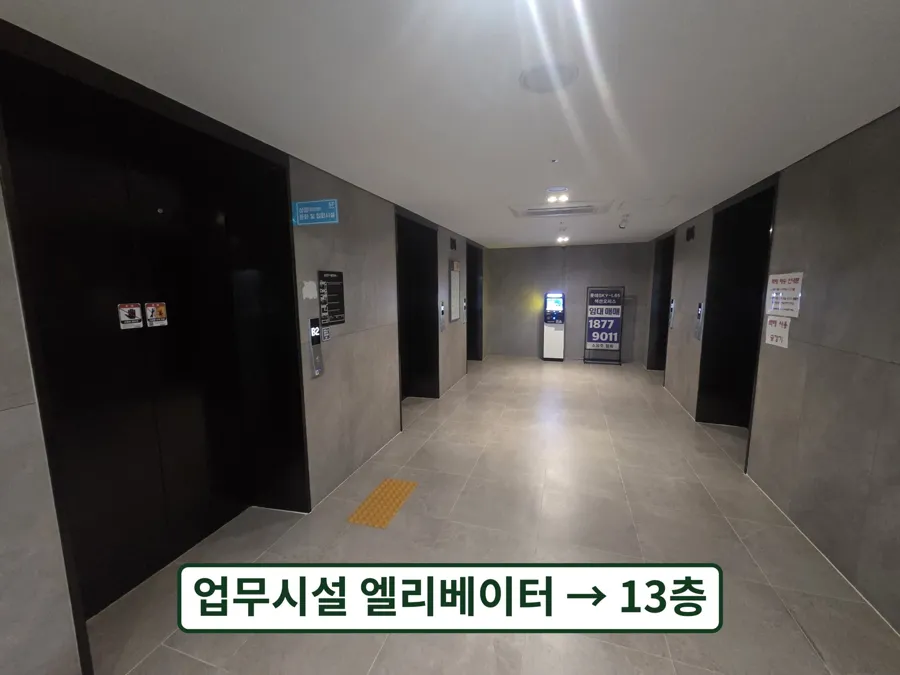
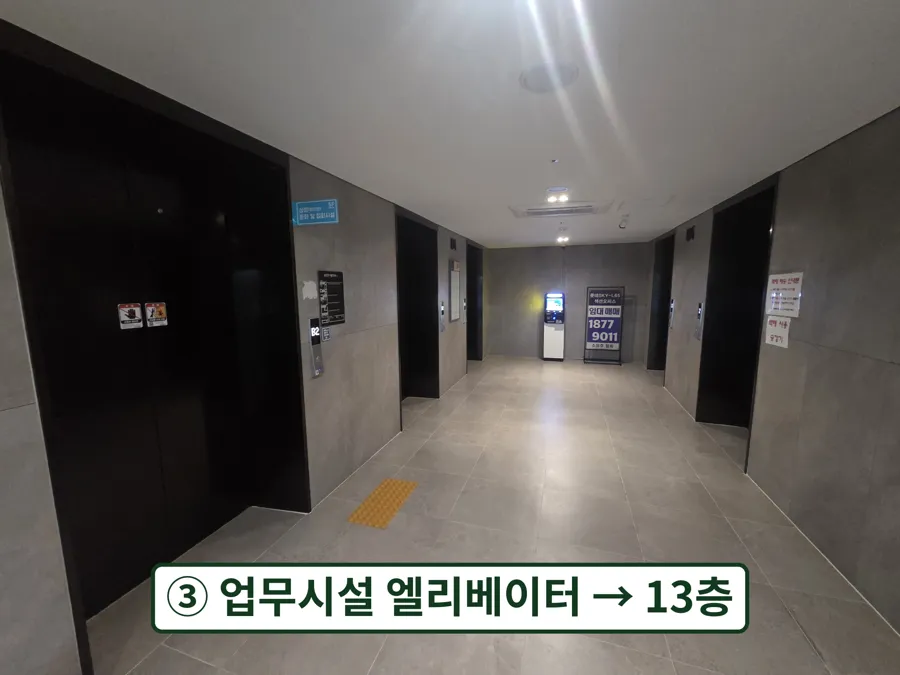
오시는 길(자차): 라벨에 ①~⑤ 번호, 13층·1313호 사진을 자차 번호로 따로 둠
Claude-Session: https://claude.ai/code/session_01DTmA7sd1pAqeWLwb5GSrVU

Changed region(s): [[0.1556, 0.8089, 0.84, 0.9644]]

diff --git a/about/index.html b/about/index.html
@@ -70,7 +70,7 @@
 <tr><th><span class="jt"><i>전</i><i>화</i></span></th><td><a href="tel:02-6952-6357"><span class="kp">02-6952-6357</span></a> (팩스 <span class="kp">02-6952-6359</span>)</td></tr>
 <tr><th><span class="jt"><i>지</i><i>역</i></span></th><td><a href="/area/dongdaemun/">동대문구 세무사 안내 보기 →</a></td></tr>
 </table>
-<div id="route"><style>.rt-intro{margin:18px 0 10px;font-weight:700}.rt-grid{display:grid;grid-template-columns:repeat(4,1fr);gap:10px}@media(max-width:640px){.rt-grid{grid-template-columns:1fr 1fr}}.rt-btn{border:2px solid var(--line);background:var(--surface);color:var(--green);border-radius:14px;padding:16px 6px 12px;display:flex;flex-direction:column;align-items:center;gap:6px;cursor:pointer;font:inherit}.rt-btn svg{width:52px;height:52px}.rt-btn b{font-size:17px}.rt-btn small{font-size:15px;opacity:.8;line-height:1.35;text-align:center}.rt-btn.on{border-color:var(--green);background:var(--tint,#EBF1ED)}.rt-set{margin-top:18px;scroll-margin-top:84px}#route{scroll-margin-top:84px}.rt-set h3{color:var(--green);margin:0 0 12px}.rt-set figure{margin:0 0 16px}.rt-set figcaption{font-size:13px;opacity:.7;margin-bottom:6px}.rt-set img{display:block;width:100%;max-width:560px;height:auto;border-radius:12px;border:1px solid var(--line)}.rt-row{display:flex;gap:10px;max-width:560px;margin:0 0 16px}.rt-row figure{flex:0 1 calc(50% - 5px);margin:0}.rt-top{border:1px solid var(--green);background:var(--surface);color:var(--green);border-radius:20px;padding:8px 18px;font:inherit;font-size:14px;cursor:pointer}</style><p class="rt-intro">오시는 방법을 누르면 그 길만 사진으로 보여 드립니다.</p><div class="rt-grid"><button type="button" class="rt-btn" data-k="line1" aria-controls="rt-line1"><svg viewBox="0 0 64 64" fill="none" stroke="currentColor" stroke-width="4" stroke-linejoin="round" aria-hidden="true"><rect x="14" y="6" width="36" height="42" rx="9"/><path d="M14 30h36M22 56l6-8M42 56l-6-8"/><circle cx="23" cy="39" r="2.5" fill="currentColor"/><circle cx="41" cy="39" r="2.5" fill="currentColor"/></svg><b>1호선</b><small>청량리역 4번 출구</small></button><button type="button" class="rt-btn" data-k="gyeongui" aria-controls="rt-gyeongui"><svg viewBox="0 0 64 64" fill="none" stroke="currentColor" stroke-width="4" stroke-linejoin="round" aria-hidden="true"><path d="M10 44V20c0-6 5-10 11-10h22c6 0 11 4 11 10v24z"/><path d="M10 30h44"/><circle cx="20" cy="38" r="2.5" fill="currentColor"/><circle cx="44" cy="38" r="2.5" fill="currentColor"/><path d="M6 54h52M18 44l-4 10M46 44l4 10"/></svg><b>경의중앙선</b><small>1번 출구 → 청량리역 4번 출구</small></button><button type="button" class="rt-btn" data-k="bus" aria-controls="rt-bus"><svg viewBox="0 0 64 64" fill="none" stroke="currentColor" stroke-width="4" stroke-linejoin="round" aria-hidden="true"><rect x="12" y="8" width="40" height="42" rx="7"/><path d="M12 32h40M20 16h24"/><circle cx="21" cy="41" r="2.5" fill="currentColor"/><circle cx="43" cy="41" r="2.5" fill="currentColor"/><path d="M18 50v6M46 50v6"/></svg><b>버스</b><small>청량리역 버스환승센터</small></button><button type="button" class="rt-btn" data-k="car" aria-controls="rt-car"><svg viewBox="0 0 64 64" fill="none" stroke="currentColor" stroke-width="4" stroke-linejoin="round" aria-hidden="true"><path d="M8 40v-8l6-14h36l6 14v8z"/><path d="M8 32h48"/><circle cx="19" cy="44" r="5"/><circle cx="45" cy="44" r="5"/></svg><b>자차</b><small>지하4층 · 2시간 무료</small></button></div><div class="rt-set" id="rt-line1" hidden><h3>1호선으로 오시는 길</h3><figure><figcaption>1 / 9</figcaption><img src="/assets/route/c-01.webp" alt="1호선으로 오시는 길 1단계" loading="lazy" width="900"></figure><figure><figcaption>2 / 9</figcaption><img src="/assets/route/c-02.webp" alt="1호선으로 오시는 길 2단계" loading="lazy" width="900"></figure><figure><figcaption>3 / 9</figcaption><img src="/assets/route/c-03.webp" alt="1호선으로 오시는 길 3단계" loading="lazy" width="900"></figure><figure><figcaption>4 / 9</figcaption><img src="/assets/route/c-04.webp" alt="1호선으로 오시는 길 4단계" loading="lazy" width="900"></figure><div class="rt-row"><figure><figcaption>5 / 9 · 이쪽 아님</figcaption><img src="/assets/route/c-05.webp" alt="1호선으로 오시는 길 5단계" loading="lazy" width="900"></figure></div><figure><figcaption>6 / 9</figcaption><img src="/assets/route/c-06.webp" alt="1호선으로 오시는 길 6단계" loading="lazy" width="900"></figure><figure><figcaption>7 / 9</figcaption><img src="/assets/route/c-07.webp" alt="1호선으로 오시는 길 7단계" loading="lazy" width="900"></figure><figure><figcaption>8 / 9</figcaption><img src="/assets/route/c-08.webp" alt="1호선으로 오시는 길 8단계" loading="lazy" width="900"></figure><figure><figcaption>9 / 9</figcaption><img src="/assets/route/c-09.webp" alt="1호선으로 오시는 길 9단계" loading="lazy" width="900"></figure><button type="button" class="rt-top">다른 방법 보기 ↑</button></div><div class="rt-set" id="rt-gyeongui" hidden><h3>경의중앙선으로 오시는 길</h3><figure><figcaption>1 / 12</figcaption><img src="/assets/route/gy-01.webp" alt="경의중앙선으로 오시는 길 1단계" loading="lazy" width="900"></figure><figure><figcaption>2 / 12</figcaption><img src="/assets/route/gy-02.webp" alt="경의중앙선으로 오시는 길 2단계" loading="lazy" width="900"></figure><figure><figcaption>3 / 12</figcaption><img src="/assets/route/gy-03.webp" alt="경의중앙선으로 오시는 길 3단계" loading="lazy" width="900"></figure><figure><figcaption>4 / 12</figcaption><img src="/assets/route/c-01.webp" alt="경의중앙선으로 오시는 길 4단계" loading="lazy" width="900"></figure><figure><figcaption>5 / 12</figcaption><img src="/assets/route/c-02.webp" alt="경의중앙선으로 오시는 길 5단계" loading="lazy" width="900"></figure><figure><figcaption>6 / 12</figcaption><img src="/assets/route/c-03.webp" alt="경의중앙선으로 오시는 길 6단계" loading="lazy" width="900"></figure><figure><figcaption>7 / 12</figcaption><img src="/assets/route/c-04.webp" alt="경의중앙선으로 오시는 길 7단계" loading="lazy" width="900"></figure><div class="rt-row"><figure><figcaption>8 / 12 · 이쪽 아님</figcaption><img src="/assets/route/c-05.webp" alt="경의중앙선으로 오시는 길 8단계" loading="lazy" width="900"></figure></div><figure><figcaption>9 / 12</figcaption><img src="/assets/route/c-06.webp" alt="경의중앙선으로 오시는 길 9단계" loading="lazy" width="900"></figure><figure><figcaption>10 / 12</figcaption><img src="/assets/route/c-07.webp" alt="경의중앙선으로 오시는 길 10단계" loading="lazy" width="900"></figure><figure><figcaption>11 / 12</figcaption><img src="/assets/route/c-08.webp" alt="경의중앙선으로 오시는 길 11단계" loading="lazy" width="900"></figure><figure><figcaption>12 / 12</figcaption><img src="/assets/route/c-09.webp" alt="경의중앙선으로 오시는 길 12단계" loading="lazy" width="900"></figure><button type="button" class="rt-top">다른 방법 보기 ↑</button></div><div class="rt-set" id="rt-bus" hidden><h3>버스로 오시는 길</h3><figure><figcaption>1 / 9</figcaption><img src="/assets/route/c-01.webp" alt="버스로 오시는 길 1단계" loading="lazy" width="900"></figure><figure><figcaption>2 / 9</figcaption><img src="/assets/route/c-02.webp" alt="버스로 오시는 길 2단계" loading="lazy" width="900"></figure><figure><figcaption>3 / 9</figcaption><img src="/assets/route/c-03.webp" alt="버스로 오시는 길 3단계" loading="lazy" width="900"></figure><figure><figcaption>4 / 9</figcaption><img src="/assets/route/c-04.webp" alt="버스로 오시는 길 4단계" loading="lazy" width="900"></figure><div class="rt-row"><figure><figcaption>5 / 9 · 이쪽 아님</figcaption><img src="/assets/route/c-05.webp" alt="버스로 오시는 길 5단계" loading="lazy" width="900"></figure></div><figure><figcaption>6 / 9</figcaption><img src="/assets/route/c-06.webp" alt="버스로 오시는 길 6단계" loading="lazy" width="900"></figure><figure><figcaption>7 / 9</figcaption><img src="/assets/route/c-07.webp" alt="버스로 오시는 길 7단계" loading="lazy" width="900"></figure><figure><figcaption>8 / 9</figcaption><img src="/assets/route/c-08.webp" alt="버스로 오시는 길 8단계" loading="lazy" width="900"></figure><figure><figcaption>9 / 9</figcaption><img src="/assets/route/c-09.webp" alt="버스로 오시는 길 9단계" loading="lazy" width="900"></figure><button type="button" class="rt-top">다른 방법 보기 ↑</button></div><div class="rt-set" id="rt-car" hidden><h3>자차로 오시는 길</h3><figure><figcaption>1 / 7</figcaption><img src="/assets/route/car-01.webp" alt="자차로 오시는 길 1단계" loading="lazy" width="900"></figure><div class="rt-row"><figure><figcaption>2 / 7 · 이쪽 아님</figcaption><img src="/assets/route/car-02.webp" alt="자차로 오시는 길 2단계" loading="lazy" width="900"></figure><figure><figcaption>3 / 7 · 이쪽 아님</figcaption><img src="/assets/route/car-03.webp" alt="자차로 오시는 길 3단계" loading="lazy" width="900"></figure></div><figure><figcaption>4 / 7</figcaption><img src="/assets/route/car-04.webp" alt="자차로 오시는 길 4단계" loading="lazy" width="900"></figure><figure><figcaption>5 / 7</figcaption><img src="/assets/route/car-05.webp" alt="자차로 오시는 길 5단계" loading="lazy" width="900"></figure><figure><figcaption>6 / 7</figcaption><img src="/assets/route/c-08.webp" alt="자차로 오시는 길 6단계" loading="lazy" width="900"></figure><figure><figcaption>7 / 7</figcaption><img src="/assets/route/c-09.webp" alt="자차로 오시는 길 7단계" loading="lazy" width="900"></figure><button type="button" class="rt-top">다른 방법 보기 ↑</button></div><p style="margin-top:14px;font-size:14px;opacity:.8">청량리역 4번 출구에서 도보 약 1~2분 · 차량번호를 알려주시면 2시간 무료 주차를 등록해 드립니다.</p></div><script>(function(){var B=document.querySelectorAll(".rt-btn"),S=document.querySelectorAll(".rt-set");function show(k,sc){B.forEach(function(b){b.classList.toggle("on",b.dataset.k===k);b.setAttribute("aria-expanded",b.dataset.k===k)});S.forEach(function(s){s.hidden=s.id!=="rt-"+k});var t=document.getElementById("rt-"+k);if(t&&sc)t.scrollIntoView({behavior:"smooth",block:"start"});}B.forEach(function(b){b.addEventListener("click",function(){show(b.dataset.k,true);history.replaceState(null,"","#go-"+b.dataset.k)})});document.querySelectorAll(".rt-top").forEach(function(b){b.addEventListener("click",function(){document.getElementById("route").scrollIntoView({behavior:"smooth"})})});var m=location.hash.match(/^#go-(\w+)$/);if(m&&document.getElementById("rt-"+m[1])){show(m[1],false);setTimeout(function(){document.getElementById("rt-"+m[1]).scrollIntoView({block:"start"})},60)}})();</script>
+<div id="route"><style>.rt-intro{margin:18px 0 10px;font-weight:700}.rt-grid{display:grid;grid-template-columns:repeat(4,1fr);gap:10px}@media(max-width:640px){.rt-grid{grid-template-columns:1fr 1fr}}.rt-btn{border:2px solid var(--line);background:var(--surface);color:var(--green);border-radius:14px;padding:16px 6px 12px;display:flex;flex-direction:column;align-items:center;gap:6px;cursor:pointer;font:inherit}.rt-btn svg{width:52px;height:52px}.rt-btn b{font-size:17px}.rt-btn small{font-size:15px;opacity:.8;line-height:1.35;text-align:center}.rt-btn.on{border-color:var(--green);background:var(--tint,#EBF1ED)}.rt-set{margin-top:18px;scroll-margin-top:84px}#route{scroll-margin-top:84px}.rt-set h3{color:var(--green);margin:0 0 12px}.rt-set figure{margin:0 0 16px}.rt-set figcaption{font-size:13px;opacity:.7;margin-bottom:6px}.rt-set img{display:block;width:100%;max-width:560px;height:auto;border-radius:12px;border:1px solid var(--line)}.rt-row{display:flex;gap:10px;max-width:560px;margin:0 0 16px}.rt-row figure{flex:0 1 calc(50% - 5px);margin:0}.rt-top{border:1px solid var(--green);background:var(--surface);color:var(--green);border-radius:20px;padding:8px 18px;font:inherit;font-size:14px;cursor:pointer}</style><p class="rt-intro">오시는 방법을 누르면 그 길만 사진으로 보여 드립니다.</p><div class="rt-grid"><button type="button" class="rt-btn" data-k="line1" aria-controls="rt-line1"><svg viewBox="0 0 64 64" fill="none" stroke="currentColor" stroke-width="4" stroke-linejoin="round" aria-hidden="true"><rect x="14" y="6" width="36" height="42" rx="9"/><path d="M14 30h36M22 56l6-8M42 56l-6-8"/><circle cx="23" cy="39" r="2.5" fill="currentColor"/><circle cx="41" cy="39" r="2.5" fill="currentColor"/></svg><b>1호선</b><small>청량리역 4번 출구</small></button><button type="button" class="rt-btn" data-k="gyeongui" aria-controls="rt-gyeongui"><svg viewBox="0 0 64 64" fill="none" stroke="currentColor" stroke-width="4" stroke-linejoin="round" aria-hidden="true"><path d="M10 44V20c0-6 5-10 11-10h22c6 0 11 4 11 10v24z"/><path d="M10 30h44"/><circle cx="20" cy="38" r="2.5" fill="currentColor"/><circle cx="44" cy="38" r="2.5" fill="currentColor"/><path d="M6 54h52M18 44l-4 10M46 44l4 10"/></svg><b>경의중앙선</b><small>1번 출구 → 청량리역 4번 출구</small></button><button type="button" class="rt-btn" data-k="bus" aria-controls="rt-bus"><svg viewBox="0 0 64 64" fill="none" stroke="currentColor" stroke-width="4" stroke-linejoin="round" aria-hidden="true"><rect x="12" y="8" width="40" height="42" rx="7"/><path d="M12 32h40M20 16h24"/><circle cx="21" cy="41" r="2.5" fill="currentColor"/><circle cx="43" cy="41" r="2.5" fill="currentColor"/><path d="M18 50v6M46 50v6"/></svg><b>버스</b><small>청량리역 버스환승센터</small></button><button type="button" class="rt-btn" data-k="car" aria-controls="rt-car"><svg viewBox="0 0 64 64" fill="none" stroke="currentColor" stroke-width="4" stroke-linejoin="round" aria-hidden="true"><path d="M8 40v-8l6-14h36l6 14v8z"/><path d="M8 32h48"/><circle cx="19" cy="44" r="5"/><circle cx="45" cy="44" r="5"/></svg><b>자차</b><small>지하4층 · 2시간 무료</small></button></div><div class="rt-set" id="rt-line1" hidden><h3>1호선으로 오시는 길</h3><figure><figcaption>1 / 9</figcaption><img src="/assets/route/c-01.webp" alt="1호선으로 오시는 길 1단계" loading="lazy" width="900"></figure><figure><figcaption>2 / 9</figcaption><img src="/assets/route/c-02.webp" alt="1호선으로 오시는 길 2단계" loading="lazy" width="900"></figure><figure><figcaption>3 / 9</figcaption><img src="/assets/route/c-03.webp" alt="1호선으로 오시는 길 3단계" loading="lazy" width="900"></figure><figure><figcaption>4 / 9</figcaption><img src="/assets/route/c-04.webp" alt="1호선으로 오시는 길 4단계" loading="lazy" width="900"></figure><div class="rt-row"><figure><figcaption>5 / 9 · 이쪽 아님</figcaption><img src="/assets/route/c-05.webp" alt="1호선으로 오시는 길 5단계" loading="lazy" width="900"></figure></div><figure><figcaption>6 / 9</figcaption><img src="/assets/route/c-06.webp" alt="1호선으로 오시는 길 6단계" loading="lazy" width="900"></figure><figure><figcaption>7 / 9</figcaption><img src="/assets/route/c-07.webp" alt="1호선으로 오시는 길 7단계" loading="lazy" width="900"></figure><figure><figcaption>8 / 9</figcaption><img src="/assets/route/c-08.webp" alt="1호선으로 오시는 길 8단계" loading="lazy" width="900"></figure><figure><figcaption>9 / 9</figcaption><img src="/assets/route/c-09.webp" alt="1호선으로 오시는 길 9단계" loading="lazy" width="900"></figure><button type="button" class="rt-top">다른 방법 보기 ↑</button></div><div class="rt-set" id="rt-gyeongui" hidden><h3>경의중앙선으로 오시는 길</h3><figure><figcaption>1 / 12</figcaption><img src="/assets/route/gy-01.webp" alt="경의중앙선으로 오시는 길 1단계" loading="lazy" width="900"></figure><figure><figcaption>2 / 12</figcaption><img src="/assets/route/gy-02.webp" alt="경의중앙선으로 오시는 길 2단계" loading="lazy" width="900"></figure><figure><figcaption>3 / 12</figcaption><img src="/assets/route/gy-03.webp" alt="경의중앙선으로 오시는 길 3단계" loading="lazy" width="900"></figure><figure><figcaption>4 / 12</figcaption><img src="/assets/route/c-01.webp" alt="경의중앙선으로 오시는 길 4단계" loading="lazy" width="900"></figure><figure><figcaption>5 / 12</figcaption><img src="/assets/route/c-02.webp" alt="경의중앙선으로 오시는 길 5단계" loading="lazy" width="900"></figure><figure><figcaption>6 / 12</figcaption><img src="/assets/route/c-03.webp" alt="경의중앙선으로 오시는 길 6단계" loading="lazy" width="900"></figure><figure><figcaption>7 / 12</figcaption><img src="/assets/route/c-04.webp" alt="경의중앙선으로 오시는 길 7단계" loading="lazy" width="900"></figure><div class="rt-row"><figure><figcaption>8 / 12 · 이쪽 아님</figcaption><img src="/assets/route/c-05.webp" alt="경의중앙선으로 오시는 길 8단계" loading="lazy" width="900"></figure></div><figure><figcaption>9 / 12</figcaption><img src="/assets/route/c-06.webp" alt="경의중앙선으로 오시는 길 9단계" loading="lazy" width="900"></figure><figure><figcaption>10 / 12</figcaption><img src="/assets/route/c-07.webp" alt="경의중앙선으로 오시는 길 10단계" loading="lazy" width="900"></figure><figure><figcaption>11 / 12</figcaption><img src="/assets/route/c-08.webp" alt="경의중앙선으로 오시는 길 11단계" loading="lazy" width="900"></figure><figure><figcaption>12 / 12</figcaption><img src="/assets/route/c-09.webp" alt="경의중앙선으로 오시는 길 12단계" loading="lazy" width="900"></figure><button type="button" class="rt-top">다른 방법 보기 ↑</button></div><div class="rt-set" id="rt-bus" hidden><h3>버스로 오시는 길</h3><figure><figcaption>1 / 9</figcaption><img src="/assets/route/c-01.webp" alt="버스로 오시는 길 1단계" loading="lazy" width="900"></figure><figure><figcaption>2 / 9</figcaption><img src="/assets/route/c-02.webp" alt="버스로 오시는 길 2단계" loading="lazy" width="900"></figure><figure><figcaption>3 / 9</figcaption><img src="/assets/route/c-03.webp" alt="버스로 오시는 길 3단계" loading="lazy" width="900"></figure><figure><figcaption>4 / 9</figcaption><img src="/assets/route/c-04.webp" alt="버스로 오시는 길 4단계" loading="lazy" width="900"></figure><div class="rt-row"><figure><figcaption>5 / 9 · 이쪽 아님</figcaption><img src="/assets/route/c-05.webp" alt="버스로 오시는 길 5단계" loading="lazy" width="900"></figure></div><figure><figcaption>6 / 9</figcaption><img src="/assets/route/c-06.webp" alt="버스로 오시는 길 6단계" loading="lazy" width="900"></figure><figure><figcaption>7 / 9</figcaption><img src="/assets/route/c-07.webp" alt="버스로 오시는 길 7단계" loading="lazy" width="900"></figure><figure><figcaption>8 / 9</figcaption><img src="/assets/route/c-08.webp" alt="버스로 오시는 길 8단계" loading="lazy" width="900"></figure><figure><figcaption>9 / 9</figcaption><img src="/assets/route/c-09.webp" alt="버스로 오시는 길 9단계" loading="lazy" width="900"></figure><button type="button" class="rt-top">다른 방법 보기 ↑</button></div><div class="rt-set" id="rt-car" hidden><h3>자차로 오시는 길</h3><figure><figcaption>1 / 7</figcaption><img src="/assets/route/car-01.webp" alt="자차로 오시는 길 1단계" loading="lazy" width="900"></figure><div class="rt-row"><figure><figcaption>2 / 7 · 이쪽 아님</figcaption><img src="/assets/route/car-02.webp" alt="자차로 오시는 길 2단계" loading="lazy" width="900"></figure><figure><figcaption>3 / 7 · 이쪽 아님</figcaption><img src="/assets/route/car-03.webp" alt="자차로 오시는 길 3단계" loading="lazy" width="900"></figure></div><figure><figcaption>4 / 7</figcaption><img src="/assets/route/car-04.webp" alt="자차로 오시는 길 4단계" loading="lazy" width="900"></figure><figure><figcaption>5 / 7</figcaption><img src="/assets/route/car-05.webp" alt="자차로 오시는 길 5단계" loading="lazy" width="900"></figure><figure><figcaption>6 / 7</figcaption><img src="/assets/route/car-06.webp" alt="자차로 오시는 길 6단계" loading="lazy" width="900"></figure><figure><figcaption>7 / 7</figcaption><img src="/assets/route/car-07.webp" alt="자차로 오시는 길 7단계" loading="lazy" width="900"></figure><button type="button" class="rt-top">다른 방법 보기 ↑</button></div><p style="margin-top:14px;font-size:14px;opacity:.8">청량리역 4번 출구에서 도보 약 1~2분 · 차량번호를 알려주시면 2시간 무료 주차를 등록해 드립니다.</p></div><script>(function(){var B=document.querySelectorAll(".rt-btn"),S=document.querySelectorAll(".rt-set");function show(k,sc){B.forEach(function(b){b.classList.toggle("on",b.dataset.k===k);b.setAttribute("aria-expanded",b.dataset.k===k)});S.forEach(function(s){s.hidden=s.id!=="rt-"+k});var t=document.getElementById("rt-"+k);if(t&&sc)t.scrollIntoView({behavior:"smooth",block:"start"});}B.forEach(function(b){b.addEventListener("click",function(){show(b.dataset.k,true);history.replaceState(null,"","#go-"+b.dataset.k)})});document.querySelectorAll(".rt-top").forEach(function(b){b.addEventListener("click",function(){document.getElementById("route").scrollIntoView({behavior:"smooth"})})});var m=location.hash.match(/^#go-(\w+)$/);if(m&&document.getElementById("rt-"+m[1])){show(m[1],false);setTimeout(function(){document.getElementById("rt-"+m[1]).scrollIntoView({block:"start"})},60)}})();</script>
 <img class="loc-map" style="margin:16px 0 0" src="/assets/map-location.svg" width="1600" height="905" alt="세무회계택 약도 — 청량리역 1호선과 청량리역·롯데백화점 사이, 청량리롯데캐슬 L65" loading="lazy">
 
 </section></div>

diff --git a/build.py b/build.py
@@ -681,7 +681,7 @@ ROUTE_SETS = {
     "line1": ("1호선", "청량리역 4번 출구", ["c-01","c-02","c-03","c-04","c-05","c-06","c-07","c-08","c-09"]),
     "gyeongui": ("경의중앙선", "1번 출구 → 청량리역 4번 출구", ["gy-01","gy-02","gy-03","c-01","c-02","c-03","c-04","c-05","c-06","c-07","c-08","c-09"]),
     "bus": ("버스", "청량리역 버스환승센터", ["c-01","c-02","c-03","c-04","c-05","c-06","c-07","c-08","c-09"]),
-    "car": ("자차", "지하4층 · 2시간 무료", ["car-01","car-02","car-03","car-04","car-05","c-08","c-09"]),
+    "car": ("자차", "지하4층 · 2시간 무료", ["car-01","car-02","car-03","car-04","car-05","car-06","car-07"]),
 }
 ROUTE_ICONS = {
     "line1": '<rect x="14" y="6" width="36" height="42" rx="9"/><path d="M14 30h36M22 56l6-8M42 56l-6-8"/><circle cx="23" cy="39" r="2.5" fill="currentColor"/><circle cx="41" cy="39" r="2.5" fill="currentColor"/>',
